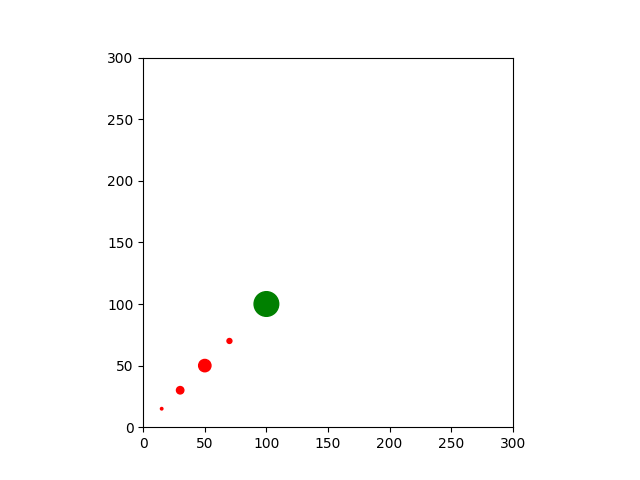
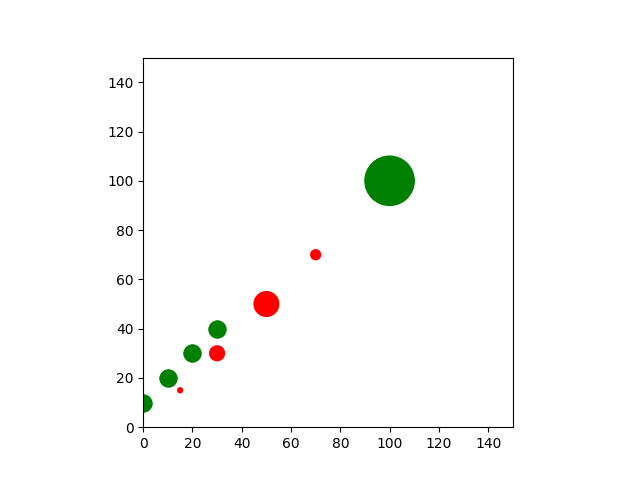
added files

diff --git a/main.py b/main.py
@@ -5,8 +5,8 @@ from model import *
 import cvxpy as cp
 
 # Grid setup
-h = 300
-w = 300
+h = 150
+w = 150
 grid = [[0 for i in range(h)] for j in range(w)]
 
 # Goal
@@ -49,6 +49,9 @@ def generate_n_inputs(robot):
     for t in range(T):
         cost += cp.sum_squares(x[:,t+1] - [goal[0], goal[1]]) # +  cp.sum_squares(u[:,t])
         constr += [x[:,t+1] == A@x[:,t] + B@u[:,t], v[:,t+1] == u[:,t], cp.norm(u[:,t], 'inf') <= NORM_MAX]
+        for j in range(len(obs)):
+            constr += [cp.norm(x[:t + 1]  - obs[j])]
+
     # sums problem objectives and concatenates constraints.
     constr += [x[:,0] == robot.get_pos()]
     problem = cp.Problem(cp.Minimize(cost), constr)
@@ -80,8 +83,11 @@ def vis_grid(robot, cnt, his):
         circs = plt.Circle((obs[i][0],obs[i][1]), r[i], color='red')
         ax.add_patch( circs )
 
-    for j in range(len(his) - 1):
-        ax.plot((his[i][0], his[i][1]), (his[i + 1][0], his[i][1]),'b-')
+    for i in range(len(his) - 1):
+        print("AAA")
+        print(his[i])
+        print(his[i + 1])
+        ax.plot([his[i][0], his[i][1]], [his[i + 1][0], his[i + 1][1]],'go--', linewidth=2, markersize=12)
 
     plt.xlim([0, w])
     plt.ylim([0, h])
@@ -99,10 +105,14 @@ def get_distance(x1, x2):
 
 def mpc_loop(robot):
     cnt = 0
+    his = []
     while time.time() - TIME_INIT <= 200:
         if get_distance(robot.get_pos(), goal) < 2:
             print("REACHED GOAL")
             break
+
+        # history
+        his.append(robot.get_pos())
 
         # Generate N inputs
         inputs = generate_n_inputs(robot)
@@ -111,10 +121,10 @@ def mpc_loop(robot):
         robot.move_me(inputs[0])
 
         # Visualize the difference
-        vis_grid(robot, cnt)
+        vis_grid(robot, cnt, his)
         cnt = cnt + 1
 
-        print(robot.get_pos())
+        #print(robot.get_pos())
 
         # time tick
         time.sleep(0.5)
